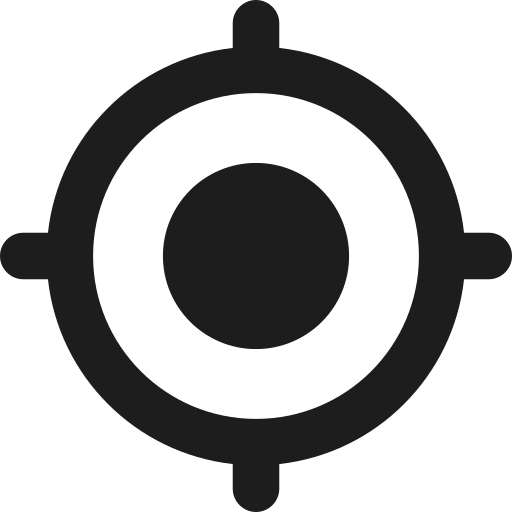
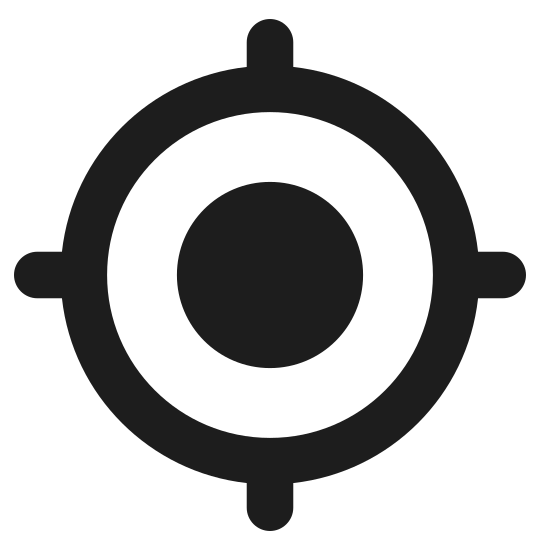
fix pin mt location2

diff --git a/googlemap/src/components/DetailDriver.css b/googlemap/src/components/DetailDriver.css
@@ -1,13 +1,4 @@
 .detail-driver-container{
-    /* max-width: 600px;
-    margin-left: auto;
-    margin-right:auto ;
-    position: fixed;
-    height: 800px;
-    width: 600px;
-    background-color: rgb(33, 34, 30);
-    z-index: 1;
-    text-align:center; */
     margin: 0 auto;
     position: fixed;
     /* top: 0%; */
@@ -17,9 +8,8 @@
     align-items: center;
     text-align: center;
     z-index: 1;
-    max-height: 800px;
     height: 70%;
-    /* max-width: 560px; */
+    max-width: 560px;
     width: 90%;
     background-color: #62d2A2;
 

diff --git a/googlemap/src/App.css b/googlemap/src/App.css
@@ -15,11 +15,11 @@
     float: right;
     height: 40px;
     width: 15%;
-    background-image: url("pinme2.png");
+    background-image: url("pinme3.png");
     background-repeat: no-repeat;
     background-position: center;
     background-size: contain;
-    background-color: rgb(157, 161, 158);
+    background-color: whitesmoke;
     border-style: solid;
     /* border-color: white; */
     border-top-right-radius: 10px;
